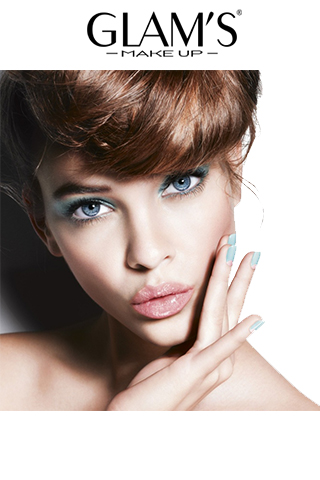
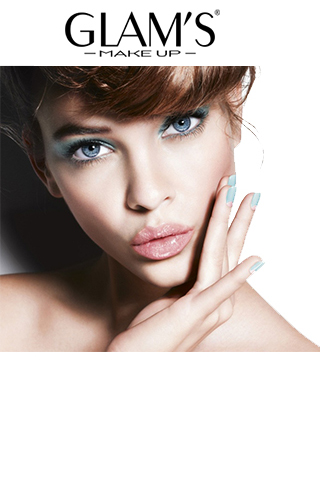
mobi

diff --git a/index.html b/index.html
@@ -52,27 +52,27 @@
     </head>
     <body >
     <!-- Welcome -->
- <div data-role="page"   id="splash" style="background: #fff;"> 
+ <!--div data-role="page"   id="splash" style="background: #fff;"> 
     <div id="monbloc" >
         <img src="images/welcome.jpg" alt="welcome" />
     </div>
-</div>
+</div-->
 <!-- Welcome -->
 
 <!-- Accueil -->
-<div data-role="page" id="home" style="background:#fff url(images/1.jpg) fixed no-repeat top center; background-size:cover"  >
+<div data-role="page" id="home" style="background:#fff url(images/1.jpg) fixed no-repeat top center; background-size:100%"  >
   <div data-role="content" >
   <!--p align="center" >
   <img src="images/logo_glams.png" alt="logo" />
   </p-->
  
   </div>
-    <div data-role="footer" data-position="fixed" style="background:#FFF; border:none;   font-size:14px;  ">
-  <ul data-role="listview" data-theme="c" data-inset="false"   >
-          <li><a href="#pdt" data-transition="pop"   >Produits</a></li>
-          <li><a href="#astuces" data-transition="pop"  >Astuces</a></li>
-          <li><a href="#find" data-transition="pop" >O&ugrave; trouver ?</a></li>
-          <li><a href="#call" data-transition="pop" >Contacts</a></li>
+    <div data-role="footer" data-position="fixed" style="background:#FFF; border:none;   " align="center">
+  <ul id="navigation"       >
+          <li><a href="#pdt"  data-transition="slide"   >Produits</a></li>
+          <li><a href="#astuces" data-transition="slide"  >Astuces</a></li>
+          <li><a href="#find" data-transition="slide" >O&ugrave; trouver ?</a></li>
+          <li><a href="#call" data-transition="slide" >Contacts</a></li>
         </ul>
    </div>
 </div>
@@ -81,10 +81,10 @@
 <!--Produits-->
   <div data-role="page" id="pdt"     >
       <div data-role="header" data-position="fixed">
-        <h1  >GLAM&acute;S</h1>
+        <h1  >PRODUITS</h1>
      
-         <a href="#home" data-transition="flip" data-iconpos="notext"  data-icon="home"   data-shadow="false" data-iconshadow="false" data-role="button"    >&nbsp;</a>
-        <a href="#right-panel"  data-icon="bars" data-iconpos="notext" data-shadow="false" data-iconshadow="false"  data-role="button"   >Open right panel</a>
+         <a href="#home" data-transition="slide" data-rel="back"   data-iconpos="left"  data-icon="arrow-l"   data-shadow="false" data-iconshadow="false" data-role="button"    data-back-btn-text="BACK"  >BACK</a>
+        <!--a href="#right-panel"  data-icon="bars" data-iconpos="notext" data-shadow="false" data-iconshadow="false"  data-role="button"   >Open right panel</a-->
           
       </div>
     <div data-role="content" align="center" style="margin-top:10px"  >
@@ -127,10 +127,10 @@
   <!--Produits-->
   <div data-role="page" id="vernis"     >
       <div data-role="header" data-position="fixed">
-        <h1  >GLAM&acute;S</h1>
+        <h1  >PRODUITS</h1>
      
-         <a href="#home" data-transition="flip" data-iconpos="notext"  data-icon="home"   data-shadow="false" data-iconshadow="false" data-role="button"    >&nbsp;</a>
-        <a href="#right-panel"  data-icon="bars" data-iconpos="notext" data-shadow="false" data-iconshadow="false"  data-role="button"   >Open right panel</a>
+         <a href="#home" data-transition="slide" data-rel="back"   data-iconpos="left"  data-icon="arrow-l"   data-shadow="false" data-iconshadow="false" data-role="button"    data-back-btn-text="BACK"  >BACK</a>
+        <!--a href="#right-panel"  data-icon="bars" data-iconpos="notext" data-shadow="false" data-iconshadow="false"  data-role="button"   >Open right panel</a-->
           
       </div>
     <div data-role="content" align="center"  >
@@ -177,10 +177,10 @@
     <!-- astuces -->
     <div data-role="page" id="astuces" style="background:#fff" >
       <div data-role="header" data-position="fixed">
-        <h1  >GLAM&acute;S</h1>
+        <h1  >PRODUITS</h1>
      
-         <a href="#home" data-transition="flip" data-iconpos="notext"  data-icon="home"   data-shadow="false" data-iconshadow="false" data-role="button"    >&nbsp;</a>
-        <a href="#right-panel"  data-icon="bars" data-iconpos="notext" data-shadow="false" data-iconshadow="false"  data-role="button"   >Open right panel</a>
+         <a href="#home" data-transition="slide" data-rel="back"   data-iconpos="left"  data-icon="arrow-l"   data-shadow="false" data-iconshadow="false" data-role="button"  data-add-back-btn="true" data-back-btn-text="BACK"  >BACK</a>
+        <!--a href="#right-panel"  data-icon="bars" data-iconpos="notext" data-shadow="false" data-iconshadow="false"  data-role="button"   >Open right panel</a-->
           
       </div>
   
@@ -270,10 +270,10 @@
     <!--Ou trouver-->
     <div data-role="page" id="find"  style="background:#FFF"  >
       <div data-role="header" data-position="fixed">
-        <h1  >GLAM&acute;S</h1>
+        <h1  >PRODUITS</h1>
      
-         <a href="#home" data-transition="flip" data-iconpos="notext"  data-icon="home"   data-shadow="false" data-iconshadow="false" data-role="button"    >&nbsp;</a>
-        <a href="#right-panel"  data-icon="bars" data-iconpos="notext" data-shadow="false" data-iconshadow="false"  data-role="button"   >Open right panel</a>
+         <a href="#home" data-transition="slide" data-rel="back"   data-iconpos="left"  data-icon="arrow-l"   data-shadow="false" data-iconshadow="false" data-role="button"    data-back-btn-text="BACK"  >BACK</a>
+        <!--a href="#right-panel"  data-icon="bars" data-iconpos="notext" data-shadow="false" data-iconshadow="false"  data-role="button"   >Open right panel</a-->
           
       </div>
     <div data-role="content" align="center">
@@ -307,10 +307,10 @@
     <!--Contacts-->
     <div data-role="page" id="call"  style="background:#FFF"  >
       <div data-role="header" data-position="fixed">
-        <h1  >GLAM&acute;S</h1>
+        <h1  >PRODUITS</h1>
      
-         <a href="#home" data-transition="flip" data-iconpos="notext"  data-icon="home"   data-shadow="false" data-iconshadow="false" data-role="button"    >&nbsp;</a>
-        <a href="#right-panel"  data-icon="bars" data-iconpos="notext" data-shadow="false" data-iconshadow="false"  data-role="button"   >Open right panel</a>
+         <a href="#home" data-transition="slide" data-rel="back"   data-iconpos="left"  data-icon="arrow-l"   data-shadow="false" data-iconshadow="false" data-role="button"    data-back-btn-text="BACK"  >BACK</a>
+        <!--a href="#right-panel"  data-icon="bars" data-iconpos="notext" data-shadow="false" data-iconshadow="false"  data-role="button"   >Open right panel</a-->
           
       </div>
     <div data-role="content" align="center">

diff --git a/css.css b/css.css
@@ -27,3 +27,37 @@ dd { font-size: 1.25em; margin: 1em 0 0; padding-bottom: 1em; border-bottom: 1px
 .splash {
    align: center;
 }
+
+#navigation {
+	 
+  width: 100%;
+  list-style: none;
+  margin: 0;
+  padding: 0; text-align:center;
+}
+ 
+#navigation li {
+
+  border-bottom: 1px solid #dddbdb ; 
+   
+}
+
+#navigation li:hover {
+
+  border-bottom: 1px solid #fff ;
+   
+}
+
+#navigation li a {
+  display: block ;
+    color: #000 ;
+	padding:20px;background:url(images/trans.png) repeat;
+  font: 7.5em ; text-shadow:none; font-weight:lighter;
+    text-decoration: none ;
+  
+}
+
+#navigation li a:hover {
+  background: #d13d64 ;
+  color:#fff;
+}

diff --git a/js/jss.js b/js/jss.js
@@ -14,7 +14,7 @@ $(document).on('pageinit',function(){
 });
 
 $(function() {
-  setTimeout(hideSplash, 2000);
+  setTimeout(hideSplash, 5000);
 });
 
 function hideSplash() {
